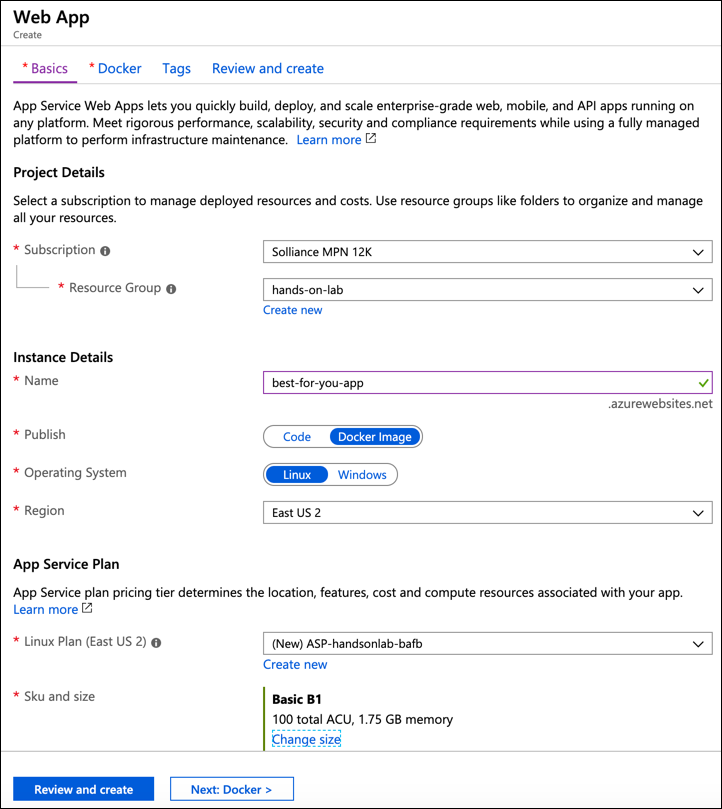
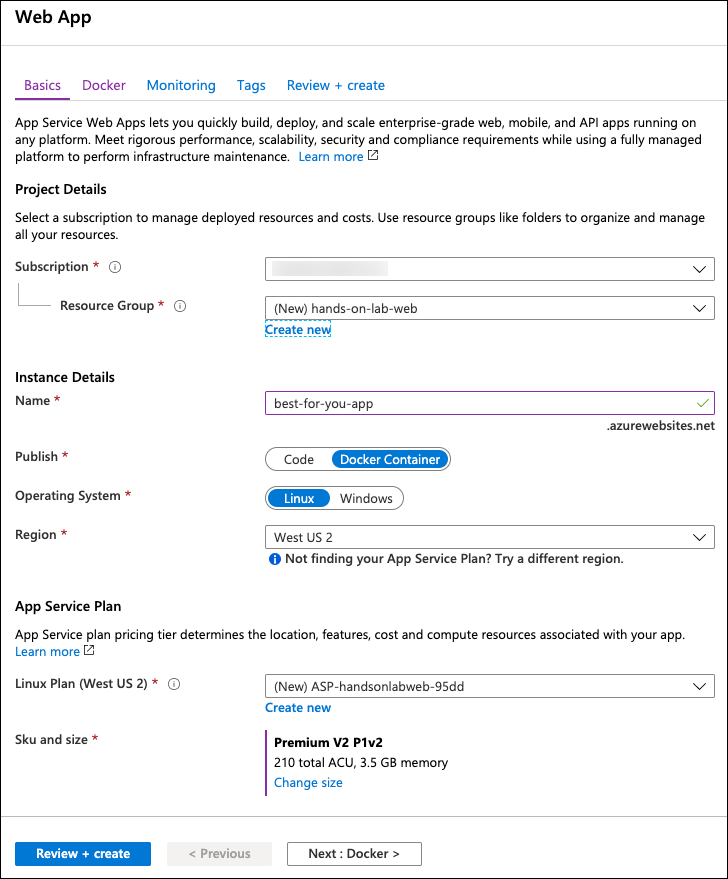
HOL exercise 4 updates

diff --git a/Hands-on lab/HOL step-by step - OSS PaaS and DevOps.md b/Hands-on lab/HOL step-by step - OSS PaaS and DevOps.md
@@ -763,7 +763,7 @@ In this task, you are going to push the image to your Azure Container Registry.
 
 Duration: 10 minutes
 
-In this exercise, you will deploy the containerized app to a Web App for Containers instance from the image stored in your Azure Container Registry.
+In this exercise, you deploy the containerized app to a Web App for Containers instance from the image stored in your Azure Container Registry.
 
 ### Task 1: Provision Web App for Containers
 
@@ -780,7 +780,7 @@ In this exercise, you will deploy the containerized app to a Web App for Contain
     **Project Details**:
 
     - **Subscription**: Select the subscription you are using for this lab.
-    - **Resource group**: Select **Use existing** and choose the hands-on-lab-SUFFIX resource group.
+    - **Resource group**: Select **Create new** and enter hands-on-lab-web-SUFFIX for the name of the new resource group.
 
     **Instance Details**:
 
@@ -813,7 +813,7 @@ In this exercise, you will deploy the containerized app to a Web App for Contain
 
 ### Task 2: Navigate to the deployed app
 
-In this task, you navigate to the deployed app, and log in to verify it is functioning correctly.
+In this task, you navigate to the deployed app and log in to verify it is functioning correctly.
 
 1. When you receive the notification that the Web App for Containers deployment has completed, navigate to the Web App by selecting the **notifications icon**, and selecting **Go to resource**.
 
@@ -1753,6 +1753,7 @@ In this exercise, you will de-provision all Azure resources that were created in
 
     - hands-on-lab-SUFFIX
     - hands-on-lab-func-SUFFIX
+    - hands-on-lab-web-SUFFIX
 
 ### Task 2: Delete WebHooks and Service Integrations
 
